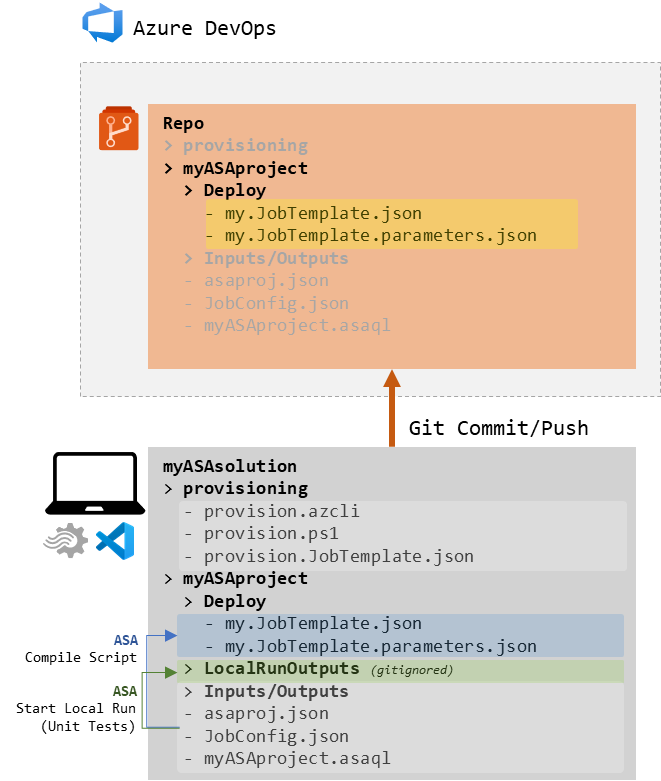
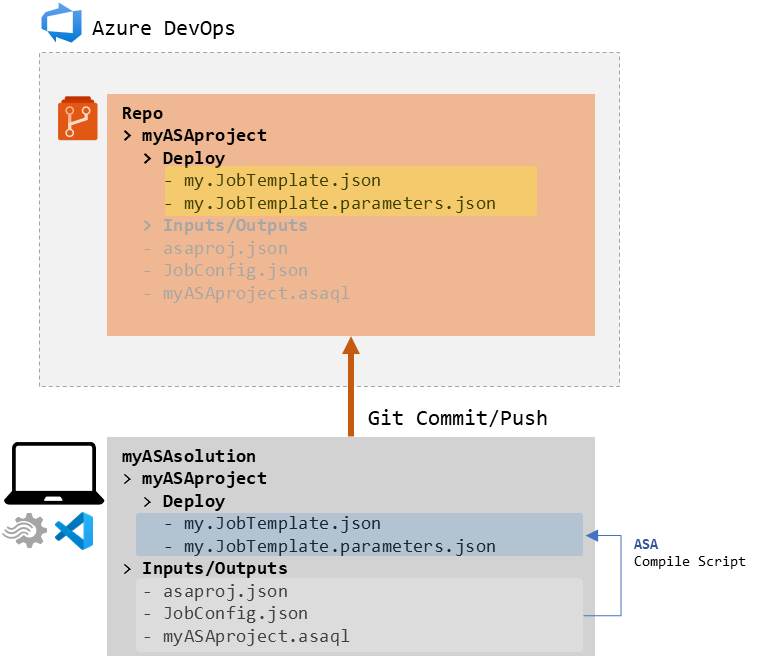
Add final schema

diff --git a/_posts/2019-12-06-asa-alm101.md b/_posts/2019-12-06-asa-alm101.md
@@ -206,6 +206,8 @@ This was easy!
 
 Each of these runs will generate a sub folder in the new ```LocalRunOutputs``` top folder. These contain the output file (json format) among other files. If this is very good to look back at past run results, this will quickly pollute our repository if we don't take care of it. A good way to address that is to add a ```.gitignore``` file in our project folder, and add ```/LocalRunOutputs``` to it, so it's excluded from the git process.
 
+![The setup so far](https://github.com/Fleid/fleid.github.io/blob/master/_posts/201912_asa_alm101/asa_alm101_local.png?raw=true)
+
 Here we have it: a tight local development environment in VSCode, with local execution that requires no Azure resource. It is to be noted that local files are loaded all at once by the local run engine, so we will need to be mindful if we want to play with time logics in the query - we nay have to switch to a live stream of data for more advanced windowing scenario. That sounds logical but it needs to be recognized.
 
 ## Next steps
